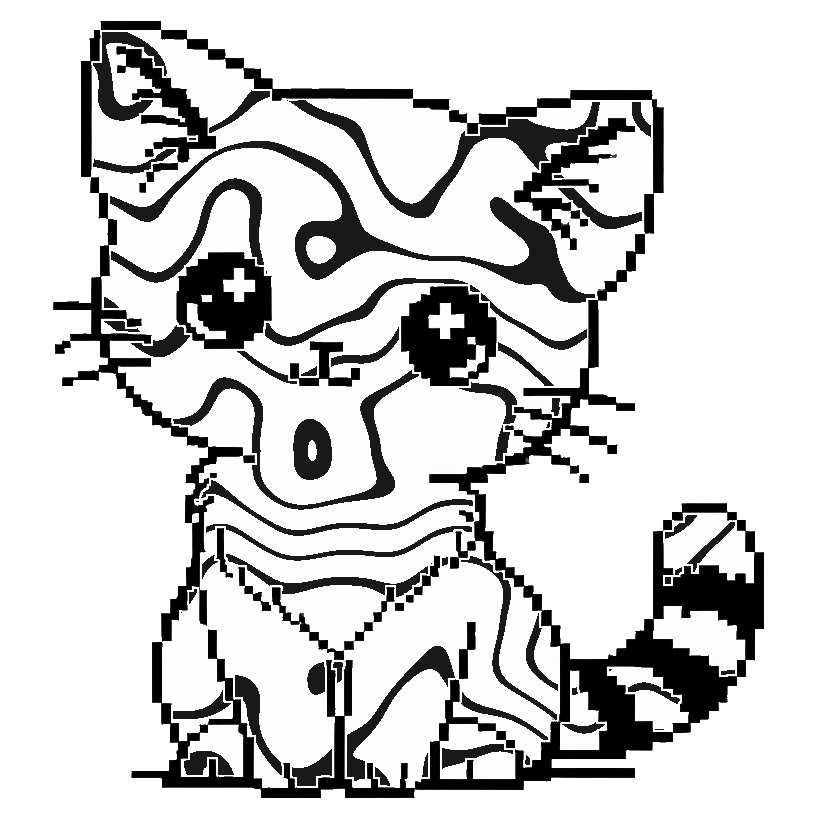
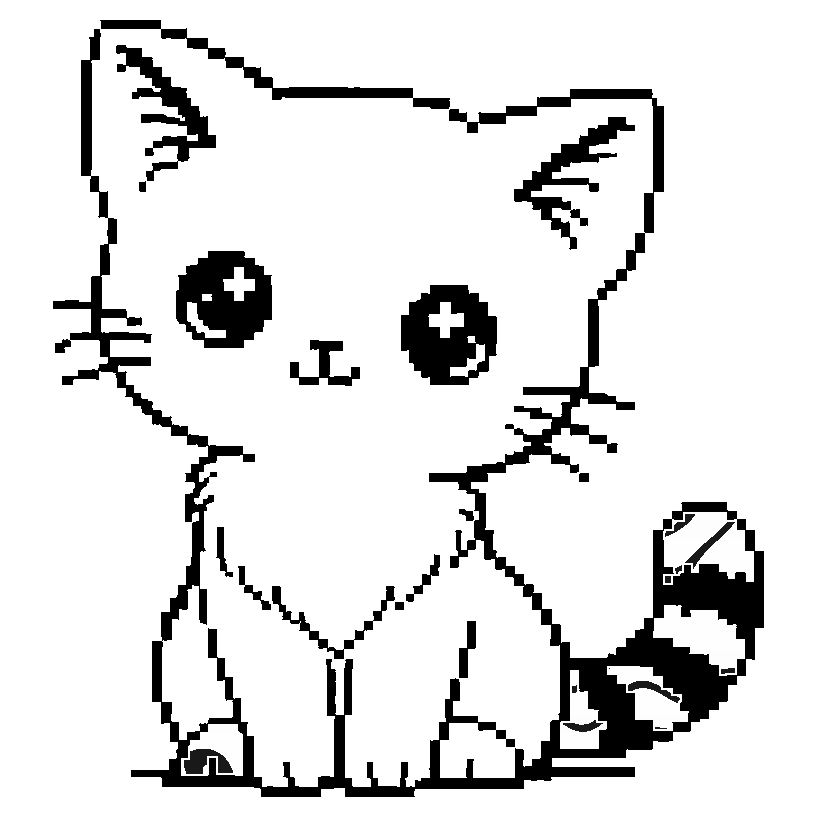
Rewrite color scheme description, regenerate examples with new pixcat
https://claude.ai/code/session_01Y1zeYokrXQCEx2qjFvhX8B

diff --git a/README.md b/README.md
@@ -8,15 +8,7 @@ Generate a unique signature cat image for any ExLlama quantized model. Each cat 
 
 ## Color Scheme
 
-The color gradient is asymmetric, reflecting the fact that quality loss is more dramatic at lower bit depths:
-
-| bpw | Color | Meaning |
-|-----|-------|---------|
-| 2 | Red | Heavily quantized |
-| 4 | White | Neutral setpoint |
-| 8 | Black | High fidelity |
-
-The gradient from 2-4 bpw (red to white) is steeper than 4-8 bpw (white to black), making aggressive low-bit quantization visually louder. The background is transparent.
+Each horizontal slice of the cat corresponds to a model layer, tinted by its average bits-per-weight. 4bpw is neutral white, 2bpw runs red hot, and 8bpw goes black and cool. The background is transparent.
 
 ## Fur Patterns
 
